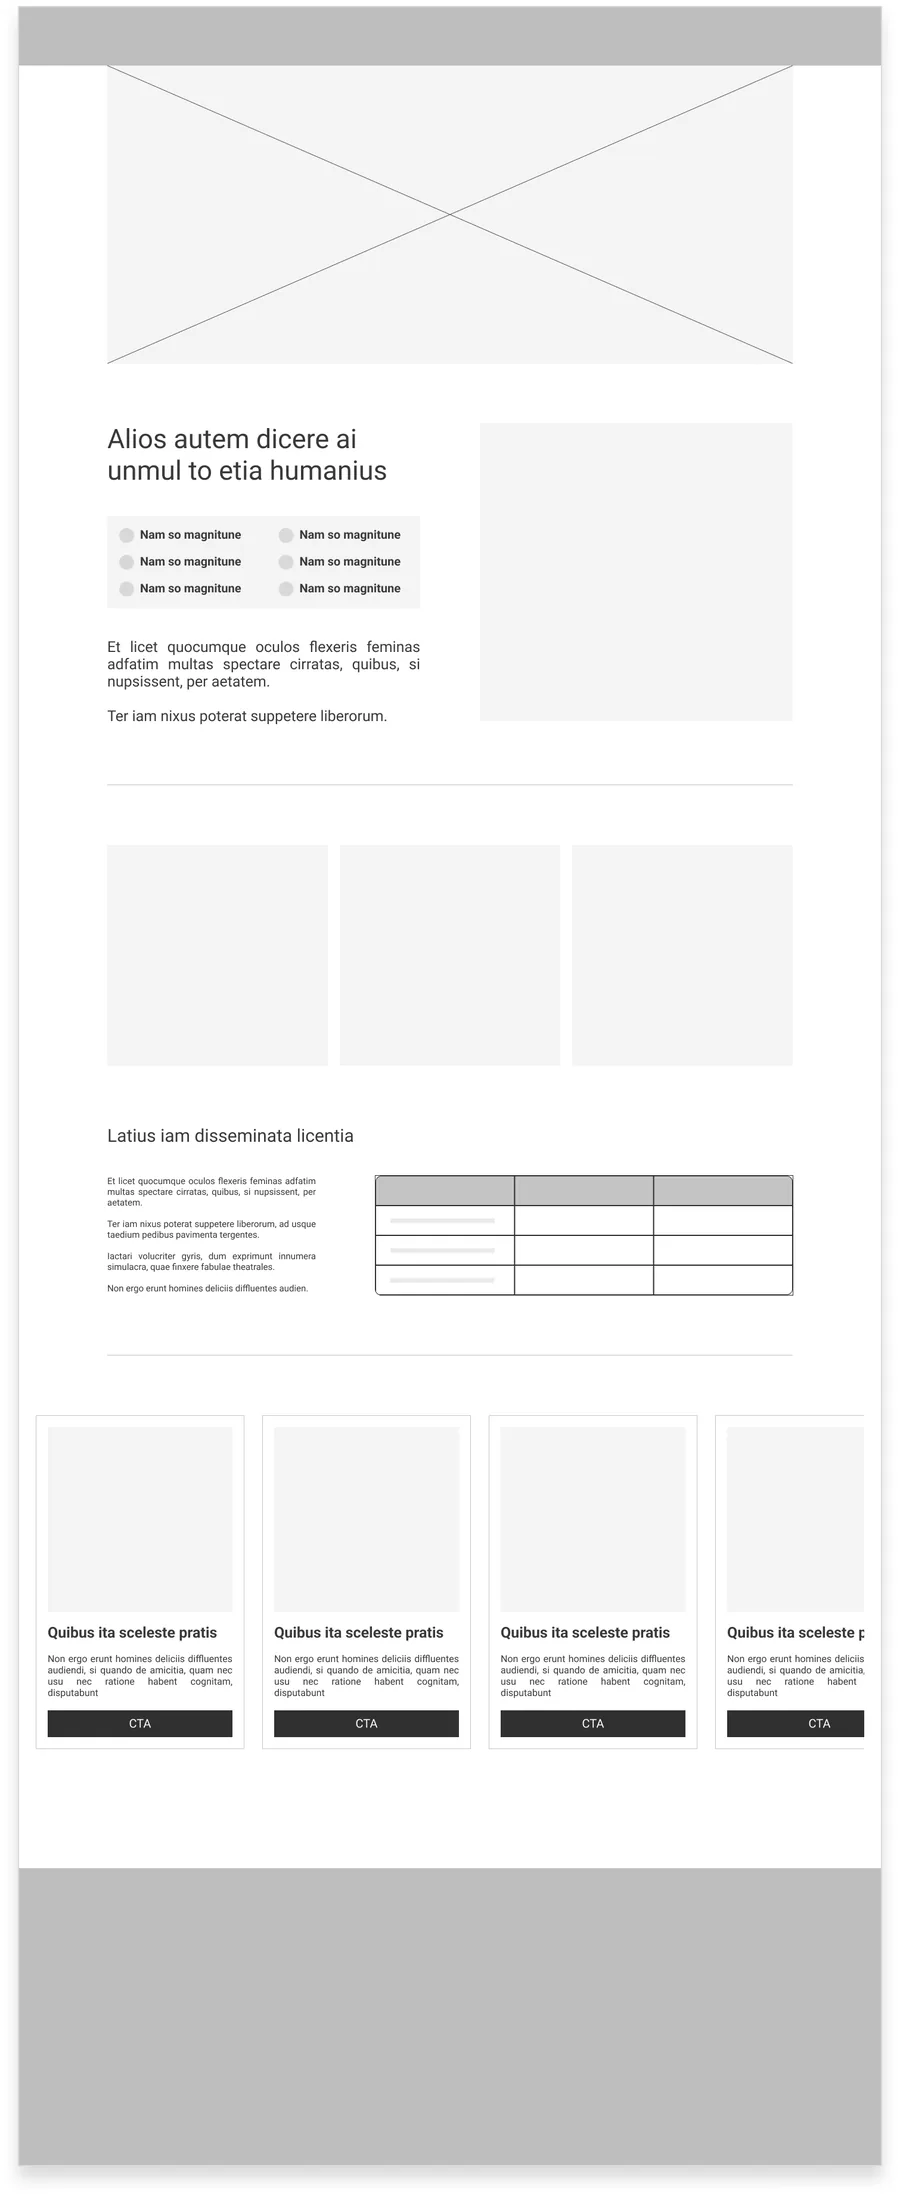
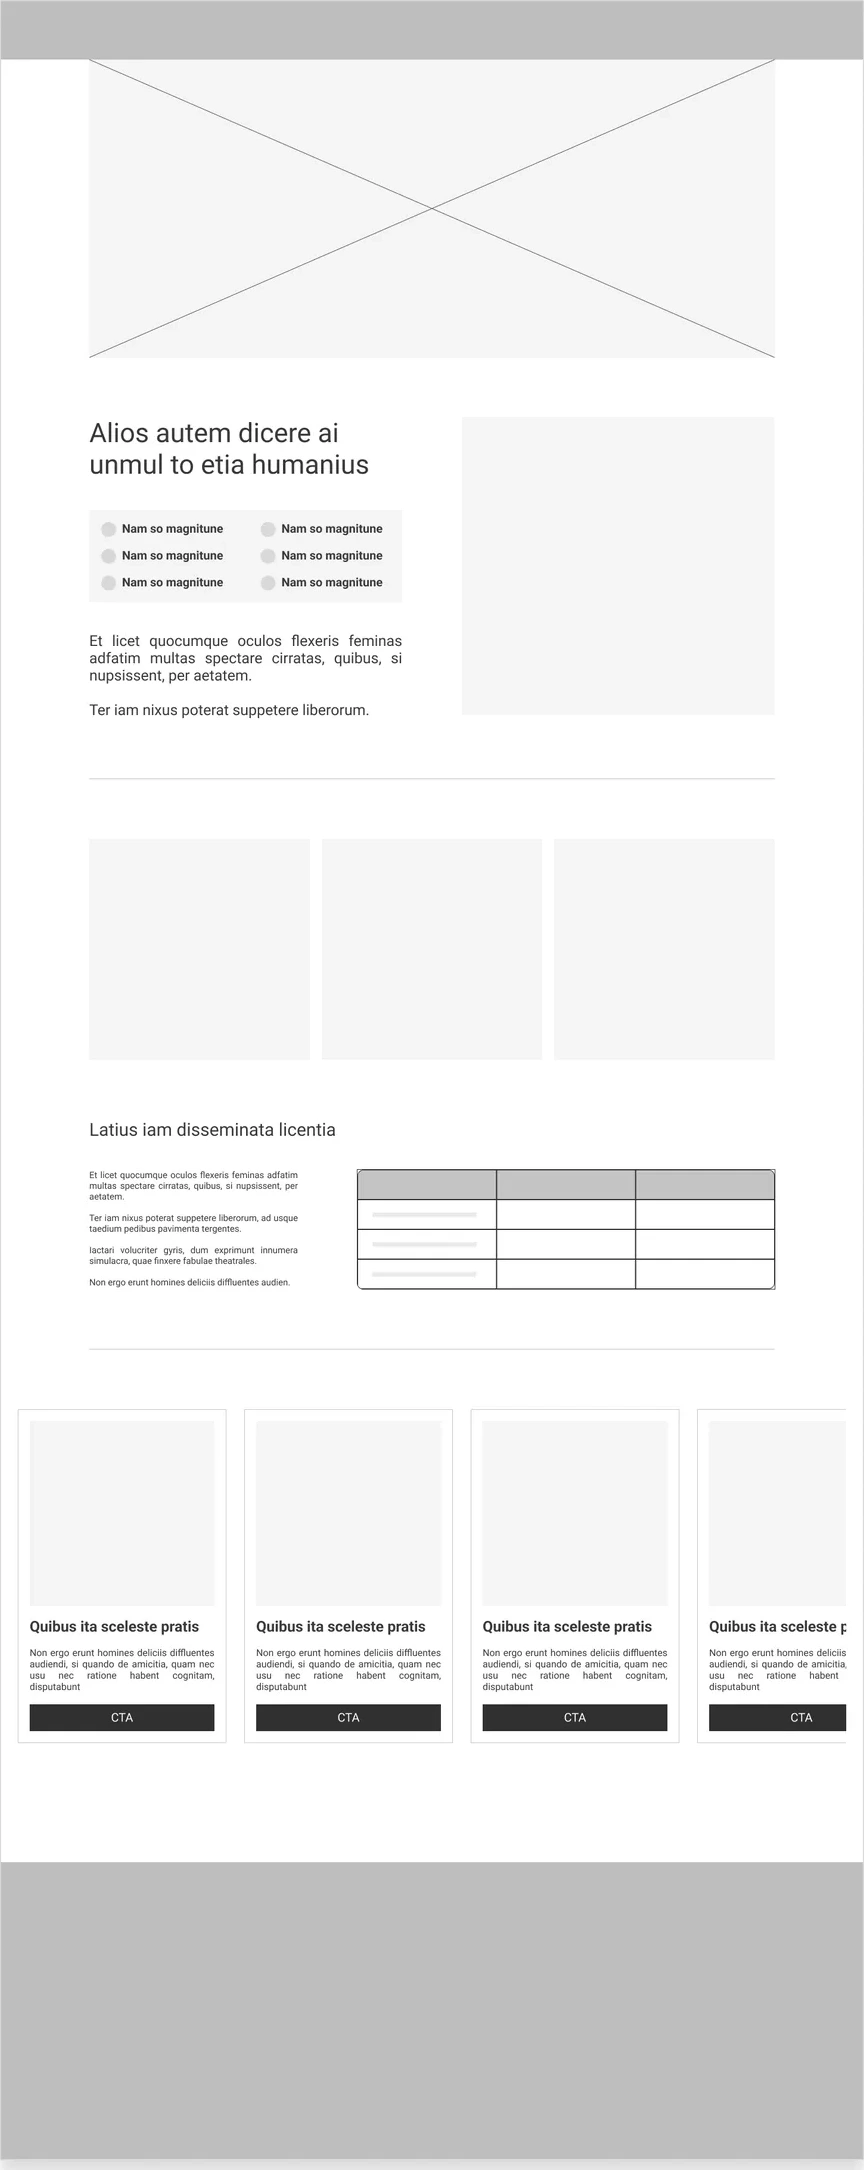
Wireframes : cadre navigateur autour des versions desktop, sans marge
Claude-Session: https://claude.ai/code/session_01THwdntjNiSuDEHoKbgxniL

diff --git a/projets/refonte-site-e-commerce-play-in/index.html b/projets/refonte-site-e-commerce-play-in/index.html
@@ -166,21 +166,21 @@
           <figure class="st-wf">
             <figcaption><span class="st-wf__num">01</span><strong>Accueil</strong>Mises en avant, univers et sélections de produits</figcaption>
             <div class="st-wf__pair">
-              <div class="st-wf__col"><span class="st-wf__label">Desktop</span><div class="st-wf__desk st-scroll" tabindex="0" role="region" aria-label="Wireframe desktop : Accueil, défilable"><img src="../../assets/img/play-in-ecommerce/wf/home-d.webp" alt="Wireframe desktop : Accueil" width="1510" height="6545" loading="lazy"></div></div>
+              <div class="st-wf__col"><span class="st-wf__label">Desktop</span><div class="st-wf__desk st-scroll" tabindex="0" role="region" aria-label="Wireframe desktop : Accueil, défilable"><img src="../../assets/img/play-in-ecommerce/wf/home-d.webp" alt="Wireframe desktop : Accueil" width="1450" height="6500" loading="lazy"></div></div>
               <div class="st-wf__col"><span class="st-wf__label">Mobile</span><div class="st-wf__mob"><img src="../../assets/img/play-in-ecommerce/wf/home-m.webp" alt="Wireframe mobile : Accueil" width="740" height="1726" loading="lazy"></div></div>
             </div>
           </figure>
           <figure class="st-wf">
             <figcaption><span class="st-wf__num">02</span><strong>Accueil d’une gamme</strong>Une page par univers, avec ses sélections et son contenu SEO</figcaption>
             <div class="st-wf__pair">
-              <div class="st-wf__col"><span class="st-wf__label">Desktop</span><div class="st-wf__desk st-scroll" tabindex="0" role="region" aria-label="Wireframe desktop : Accueil d’une gamme, défilable"><img src="../../assets/img/play-in-ecommerce/wf/gamme-d.webp" alt="Wireframe desktop : Accueil d’une gamme" width="1510" height="6264" loading="lazy"></div></div>
+              <div class="st-wf__col"><span class="st-wf__label">Desktop</span><div class="st-wf__desk st-scroll" tabindex="0" role="region" aria-label="Wireframe desktop : Accueil d’une gamme, défilable"><img src="../../assets/img/play-in-ecommerce/wf/gamme-d.webp" alt="Wireframe desktop : Accueil d’une gamme" width="1450" height="6220" loading="lazy"></div></div>
               <div class="st-wf__col"><span class="st-wf__label">Mobile</span><div class="st-wf__mob"><img src="../../assets/img/play-in-ecommerce/wf/gamme-m.webp" alt="Wireframe mobile : Accueil d’une gamme" width="740" height="1726" loading="lazy"></div></div>
             </div>
           </figure>
           <figure class="st-wf">
             <figcaption><span class="st-wf__num">03</span><strong>Catalogue</strong>Grille de produits avec prix et avis, puis texte SEO</figcaption>
             <div class="st-wf__pair">
-              <div class="st-wf__col"><span class="st-wf__label">Desktop</span><div class="st-wf__desk st-scroll" tabindex="0" role="region" aria-label="Wireframe desktop : Catalogue, défilable"><img src="../../assets/img/play-in-ecommerce/wf/catalogue-d.webp" alt="Wireframe desktop : Catalogue" width="1510" height="6599" loading="lazy"></div></div>
+              <div class="st-wf__col"><span class="st-wf__label">Desktop</span><div class="st-wf__desk st-scroll" tabindex="0" role="region" aria-label="Wireframe desktop : Catalogue, défilable"><img src="../../assets/img/play-in-ecommerce/wf/catalogue-d.webp" alt="Wireframe desktop : Catalogue" width="1450" height="6553" loading="lazy"></div></div>
               <div class="st-wf__col"><span class="st-wf__label">Mobile</span><div class="st-wf__mob"><img src="../../assets/img/play-in-ecommerce/wf/catalogue-m.webp" alt="Wireframe mobile : Catalogue" width="740" height="1726" loading="lazy"></div></div>
             </div>
           </figure>
@@ -190,14 +190,14 @@
           <figure class="st-wf">
             <figcaption><span class="st-wf__num">04</span><strong>Fiche produit</strong>Prix, quantité et ajout au panier dès le premier écran</figcaption>
             <div class="st-wf__pair">
-              <div class="st-wf__col"><span class="st-wf__label">Desktop</span><div class="st-wf__desk st-scroll" tabindex="0" role="region" aria-label="Wireframe desktop : Fiche produit, défilable"><img src="../../assets/img/play-in-ecommerce/wf/produit-d.webp" alt="Wireframe desktop : Fiche produit" width="1510" height="5473" loading="lazy"></div></div>
+              <div class="st-wf__col"><span class="st-wf__label">Desktop</span><div class="st-wf__desk st-scroll" tabindex="0" role="region" aria-label="Wireframe desktop : Fiche produit, défilable"><img src="../../assets/img/play-in-ecommerce/wf/produit-d.webp" alt="Wireframe desktop : Fiche produit" width="1450" height="5428" loading="lazy"></div></div>
               <div class="st-wf__col"><span class="st-wf__label">Mobile</span><div class="st-wf__mob"><img src="../../assets/img/play-in-ecommerce/wf/produit-m.webp" alt="Wireframe mobile : Fiche produit" width="740" height="1726" loading="lazy"></div></div>
             </div>
           </figure>
           <figure class="st-wf">
             <figcaption><span class="st-wf__num">05</span><strong>Fiche carte</strong>Toutes les éditions et états d’une carte, avec leur prix</figcaption>
             <div class="st-wf__pair">
-              <div class="st-wf__col"><span class="st-wf__label">Desktop</span><div class="st-wf__desk st-scroll" tabindex="0" role="region" aria-label="Wireframe desktop : Fiche carte, défilable"><img src="../../assets/img/play-in-ecommerce/wf/carte-d.webp" alt="Wireframe desktop : Fiche carte" width="1510" height="5309" loading="lazy"></div></div>
+              <div class="st-wf__col"><span class="st-wf__label">Desktop</span><div class="st-wf__desk st-scroll" tabindex="0" role="region" aria-label="Wireframe desktop : Fiche carte, défilable"><img src="../../assets/img/play-in-ecommerce/wf/carte-d.webp" alt="Wireframe desktop : Fiche carte" width="1450" height="5264" loading="lazy"></div></div>
               <div class="st-wf__col"><span class="st-wf__label">Mobile</span><div class="st-wf__mob"><img src="../../assets/img/play-in-ecommerce/wf/carte-m.webp" alt="Wireframe mobile : Fiche carte" width="740" height="1726" loading="lazy"></div></div>
             </div>
           </figure>
@@ -207,13 +207,13 @@
           <figure class="st-wf">
             <figcaption><span class="st-wf__num">06</span><strong>Panier</strong>Articles, quantités et récapitulatif toujours visible</figcaption>
             <div class="st-wf__pair">
-              <div class="st-wf__col"><span class="st-wf__label">Desktop</span><div class="st-wf__desk st-scroll" tabindex="0" role="region" aria-label="Wireframe desktop : Panier, défilable"><img src="../../assets/img/play-in-ecommerce/wf/panier-d.webp" alt="Wireframe desktop : Panier" width="1510" height="2941" loading="lazy"></div></div>
+              <div class="st-wf__col"><span class="st-wf__label">Desktop</span><div class="st-wf__desk st-scroll" tabindex="0" role="region" aria-label="Wireframe desktop : Panier, défilable"><img src="../../assets/img/play-in-ecommerce/wf/panier-d.webp" alt="Wireframe desktop : Panier" width="1450" height="2896" loading="lazy"></div></div>
               <div class="st-wf__col"><span class="st-wf__label">Mobile</span><div class="st-wf__mob"><img src="../../assets/img/play-in-ecommerce/wf/panier-m.webp" alt="Wireframe mobile : Panier" width="740" height="1726" loading="lazy"></div></div>
             </div>
           </figure>
           <figure class="st-wf">
             <figcaption><span class="st-wf__num">07</span><strong>Connexion depuis le panier</strong>Se connecter ou créer un compte sans quitter le panier</figcaption>
-            <div class="st-wf__col"><span class="st-wf__label">Desktop</span><div class="st-scroll st-ui" tabindex="0" role="region" aria-label="Wireframe desktop : connexion depuis le panier, défilable"><img src="../../assets/img/play-in-ecommerce/wf/connexion-d.webp" alt="Wireframe desktop : fenêtre de connexion par-dessus le panier" width="1510" height="2941" loading="lazy"></div></div>
+            <div class="st-wf__col"><span class="st-wf__label">Desktop</span><div class="st-scroll st-ui" tabindex="0" role="region" aria-label="Wireframe desktop : connexion depuis le panier, défilable"><img src="../../assets/img/play-in-ecommerce/wf/connexion-d.webp" alt="Wireframe desktop : fenêtre de connexion par-dessus le panier" width="1450" height="2895" loading="lazy"></div></div>
           </figure>
         </div>
         <p class="st-note">Faites défiler les versions desktop pour voir la page en entier.</p>

diff --git a/projets/camping-minaudieres/index.html b/projets/camping-minaudieres/index.html
@@ -210,7 +210,7 @@
           <figure class="st-wf">
             <figcaption><span class="st-wf__num">01</span><strong>Accueil</strong>Présenter le camping et donner accès à la réservation dès l’arrivée</figcaption>
             <div class="st-wf__pair">
-              <div class="st-wf__col"><span class="st-wf__label">Desktop</span><div class="st-wf__desk st-scroll" tabindex="0" role="region" aria-label="Wireframe desktop de la page Accueil, défilable"><img src="../../assets/img/camping/wf/accueil-d.webp" alt="Wireframe desktop de la page Accueil" width="900" height="3059" loading="lazy"></div></div>
+              <div class="st-wf__col"><span class="st-wf__label">Desktop</span><div class="st-wf__desk st-scroll" tabindex="0" role="region" aria-label="Wireframe desktop de la page Accueil, défilable"><img src="../../assets/img/camping/wf/accueil-d.webp" alt="Wireframe desktop de la page Accueil" width="866" height="3032" loading="lazy"></div></div>
               <div class="st-wf__col"><span class="st-wf__label">Mobile</span><div class="st-wf__mob"><img src="../../assets/img/camping/wf/accueil-m.webp" alt="Wireframe mobile de la page Accueil" width="400" height="933" loading="lazy"></div></div>
             </div>
           </figure>
@@ -238,7 +238,7 @@
           <figure class="st-wf">
             <figcaption><span class="st-wf__num">05</span><strong>Pêche</strong>Mettre en avant l’étang de pêche, activité phare du camping</figcaption>
             <div class="st-wf__pair">
-              <div class="st-wf__col"><span class="st-wf__label">Desktop</span><div class="st-wf__desk st-scroll" tabindex="0" role="region" aria-label="Wireframe desktop de la page Pêche, défilable"><img src="../../assets/img/camping/wf/peche-d.webp" alt="Wireframe desktop de la page Pêche" width="900" height="2196" loading="lazy"></div></div>
+              <div class="st-wf__col"><span class="st-wf__label">Desktop</span><div class="st-wf__desk st-scroll" tabindex="0" role="region" aria-label="Wireframe desktop de la page Pêche, défilable"><img src="../../assets/img/camping/wf/peche-d.webp" alt="Wireframe desktop de la page Pêche" width="864" height="2170" loading="lazy"></div></div>
               <div class="st-wf__col"><span class="st-wf__label">Mobile</span><div class="st-wf__mob"><img src="../../assets/img/camping/wf/peche-m.webp" alt="Wireframe mobile de la page Pêche" width="400" height="933" loading="lazy"></div></div>
             </div>
           </figure>

diff --git a/assets/css/style.css b/assets/css/style.css
@@ -595,3 +595,15 @@ ul { padding: 0; list-style: none; }
 .st-wfs > .st-wf--full { grid-column: 1 / -1; }
 .st-wf--full .st-wf__pair .st-scroll { height: 640px; }
 @media (max-width: 750px) { .st-wf--full .st-wf__pair .st-scroll { height: 340px; } }
+/* Wireframes : cadre façon fenêtre de navigateur autour des versions desktop,
+   même gris que le contour des maquettes mobiles, sans marge autour de l'image */
+section[aria-labelledby="t-wire"] .st-wf__desk.st-scroll {
+  border: 8px solid transparent; border-top-width: 26px; border-radius: 12px;
+  background:
+    radial-gradient(circle, #a6a6a6 4px, transparent 4.5px) 10px -1px / 14px 26px no-repeat border-box,
+    radial-gradient(circle, #a6a6a6 4px, transparent 4.5px) 26px -1px / 14px 26px no-repeat border-box,
+    radial-gradient(circle, #a6a6a6 4px, transparent 4.5px) 42px -1px / 14px 26px no-repeat border-box,
+    #d9d9d9 border-box;
+  box-shadow: none; padding: 0;
+}
+section[aria-labelledby="t-wire"] .st-wf__desk.st-scroll img { background: #fff; }
